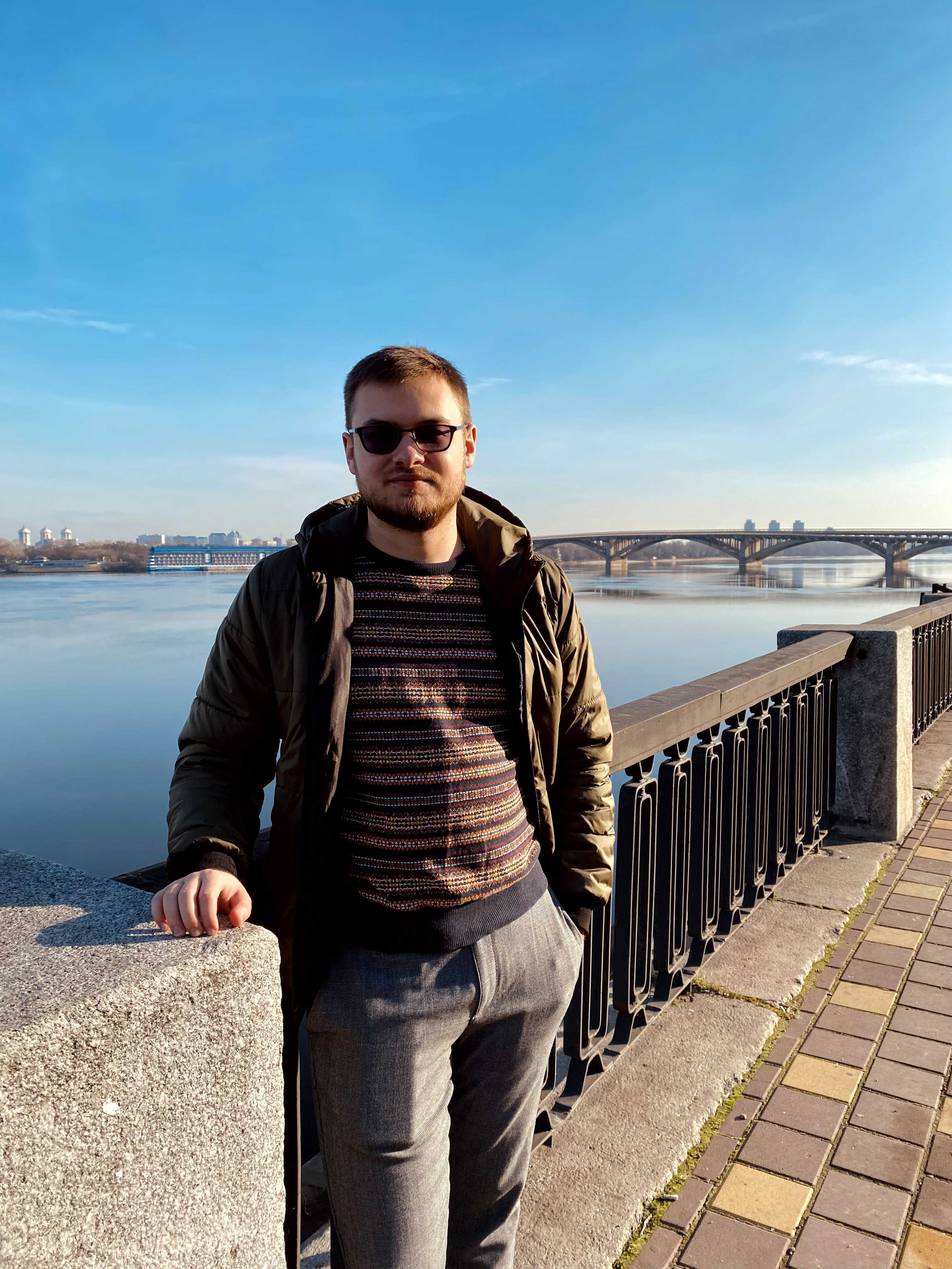
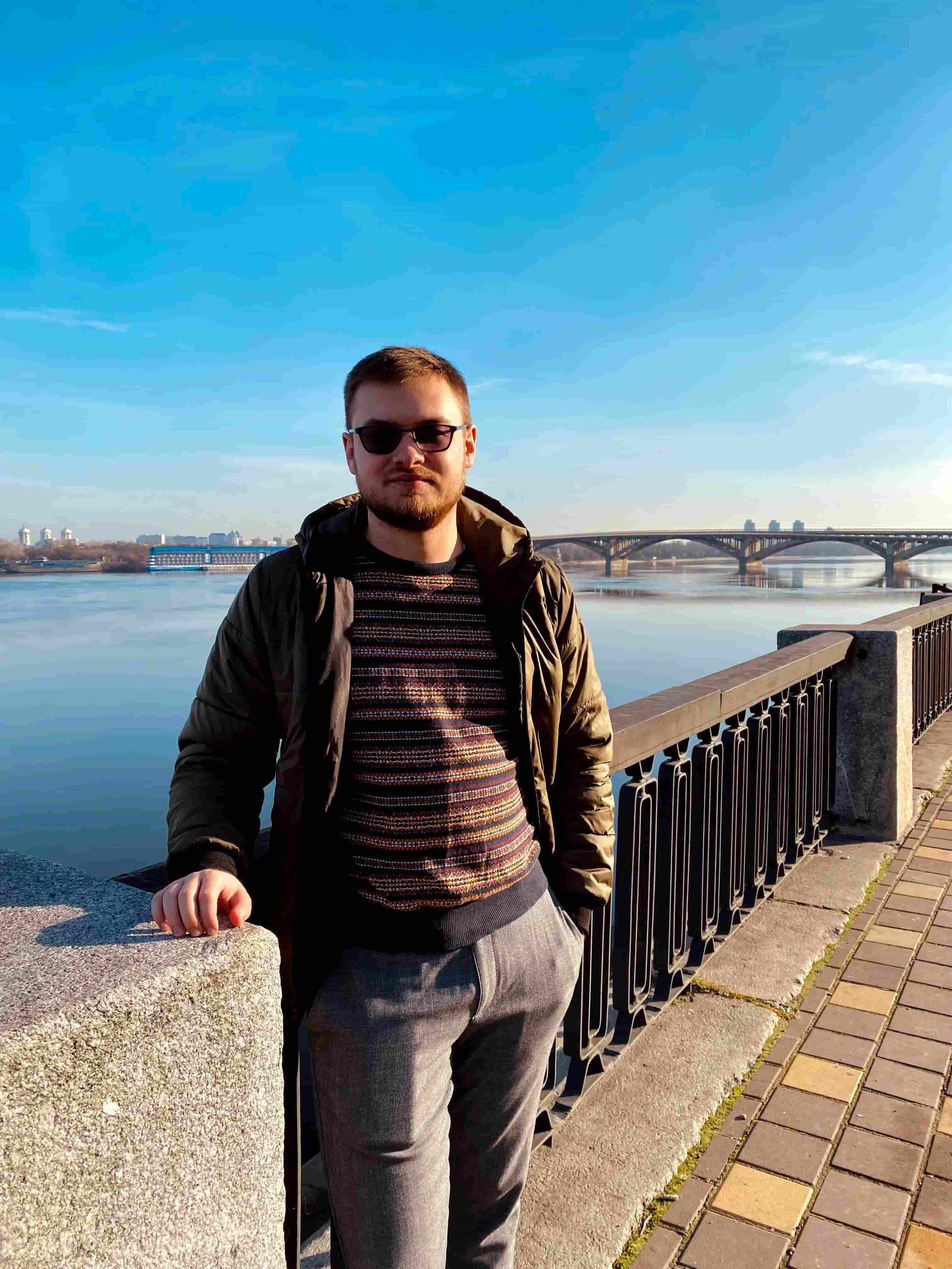
optimized photos

diff --git a/src/sass/components/_header.scss b/src/sass/components/_header.scss
@@ -1,5 +1,3 @@
-
-
 .header {
     z-index: 100;
     position: fixed;
@@ -29,19 +27,20 @@
         padding-bottom: 14px;
     }
 
-    &.autorizationstyle{
- @media (min-width:768px) {
-        justify-content: space-between;
-    }
+    &.autorizationstyle {
+        @media (min-width:768px) {
+            justify-content: space-between;
+        }
     }
 
 }
 
 
 
-.header__container{
-    display:flex;
+.header__container {
+    display: flex;
 }
+
 .list__nav {
     display: none;
     align-items: center;
@@ -50,7 +49,7 @@
 
     &.show {
         display: flex;
-        
+
     }
 
     @media (min-width:1440px) {
@@ -58,7 +57,7 @@
     }
 }
 
-.header__content{
+.header__content {
     display: flex;
     align-items: center;
 }
@@ -83,29 +82,32 @@
 }
 
 .icon__burger--open,
-.icon__burger--close{
+.icon__burger--close {
     stroke: $primary-text-color;
-     @media (min-width: 768px) {
+
+    @media (min-width: 768px) {
         display: none;
     }
-    
+
 }
 
 
 .header__burger--open,
-.header__burger--close{
+.header__burger--close {
     background-color: $bg-color-header;
-    border:transparent;
-  @media (min-width: 768px) {
-            display: none;}
-    
+    border: transparent;
 
-    
+    @media (min-width: 768px) {
+        display: none;
+    }
+
+
+
 }
 
 
 
-.block{
+.block {
     display: none;
 }
 
@@ -189,7 +191,7 @@
 
 }
 
-.js-icon.current{
+.js-icon.current {
     fill: #111111;
 }
 
@@ -214,6 +216,7 @@
         }
     }
 }
+
 .log {
     display: none;
 
@@ -221,8 +224,9 @@
         display: flex;
     }
 }
-.log{
-    &.show{
+
+.log {
+    &.show {
 
         display: none;
         align-items: center;
@@ -234,18 +238,23 @@
         border-radius: 50px;
         letter-spacing: -0.04em;
         color: $bg-color-header;
+        cursor: pointer;
+
 
         &.show {
- @media (min-width: 768px) {
-            display: flex;}
+            @media (min-width: 768px) {
+                display: flex;
+            }
         }
     }
 }
-.log-out{
+
+.log-out {
     background: transparent;
     border: transparent;
     letter-spacing: -0.04em;
-    color:$bg-color-header;
+    color: $bg-color-header;
+    cursor: pointer;
 }
 
 #toggle {
@@ -318,35 +327,38 @@
 
 
 
-.icon-black{
+.icon-black {
     stroke: $bg-color-header;
-    fill:  $bg-color-header;
-}
-.button-black{
-background-color: #111111;
+    fill: $bg-color-header;
 }
 
-.exit{
-    display: none;}
+.button-black {
+    background-color: #111111;
+}
 
-.exit_show{
+.exit {
+    display: none;
+}
+
+.exit_show {
     top: 60px;
     right: 0px;
     position: absolute;
     width: 184px;
     display: flex;
     align-items: center;
-    gap:4px;
+    gap: 4px;
     padding: 14px 24px;
     justify-content: space-between;
     height: 48px;
     font-style: normal;
     font-weight: 500;
     font-size: 14px;
-   line-height: 1.29;
-   letter-spacing: -0.04em; 
-   color: #111111;
-   background: #FFFFFF;
-   border: 1.5px solid #111111;
-   border-radius: 18px;
+    line-height: 1.29;
+    letter-spacing: -0.04em;
+    color: #111111;
+    background: #FFFFFF;
+    border: 1.5px solid #111111;
+    border-radius: 50px;
+    cursor: pointer;
 }

diff --git a/src/sass/pages/_shoppingList.scss b/src/sass/pages/_shoppingList.scss
@@ -17,6 +17,7 @@
       width: 356px;
     }
   }
+
   &__ul {
     margin-top: 40px;
   }
@@ -166,6 +167,7 @@
     &:focus {
       background-color: $secondary-button-pagination-color;
       filter: drop-shadow(0px 3px 3px rgba(0, 0, 0, 0.15));
+      cursor: pointer;
     }
 
     @media screen and (min-width: $tablet) {
@@ -283,8 +285,7 @@
     filter: saturate(1%) hue-rotate(1deg) grayscale(1000%) contrast(95%);
 
     .dark-theme & {
-      filter: invert(100%) saturate(1%) hue-rotate(1deg) brightness(1000%)
-        contrast(95%);
+      filter: invert(100%) saturate(1%) hue-rotate(1deg) brightness(1000%) contrast(95%);
     }
   }
 

diff --git a/src/js/team-items.js b/src/js/team-items.js
@@ -52,7 +52,7 @@ export const team = [
     name: 'Viktoriia Khmelevska',
     position: 'Developer',
     description: 'Support Ukraine, Swiper, HTML, SCSS',
-    img: 'https://raw.githubusercontent.com/NazarMural/project-bookshelf/main/src/images/team/viktoriia-khmelevska.png',
+    img: 'https://raw.githubusercontent.com/NazarMural/project-bookshelf/main/src/images/team/viktoriia-khmelevska.jpg',
     url: 'https://github.com/ViktoriiaKhmelevska',
   },
 ];

diff --git a/src/sass/components/_buttons.scss b/src/sass/components/_buttons.scss
@@ -4,13 +4,14 @@
     right: 20px;
 
     background-color: rgba(79, 46, 232, 0.3);
-    
+
     border-radius: 50%;
     padding: 5px;
     height: 64px;
     width: 64px;
 
 }
+
 /* Задаємо параметри анімації */
 
 .button-up {
@@ -22,6 +23,7 @@
     width: 100%;
     border-radius: 50%;
     border: 0px;
+    cursor: pointer;
 }
 
 .button-up__icon {

diff --git a/src/sass/components/_modal-team.scss b/src/sass/components/_modal-team.scss
@@ -149,7 +149,7 @@ body.modal-team-open {
         transition: transform 250ms $cubic;
 
         .modal-team__link-github:hover & {
-            transform: rotate(360deg)scale(1.5);
+            transform: rotate(360deg) scale(1.5);
         }
     }
 
